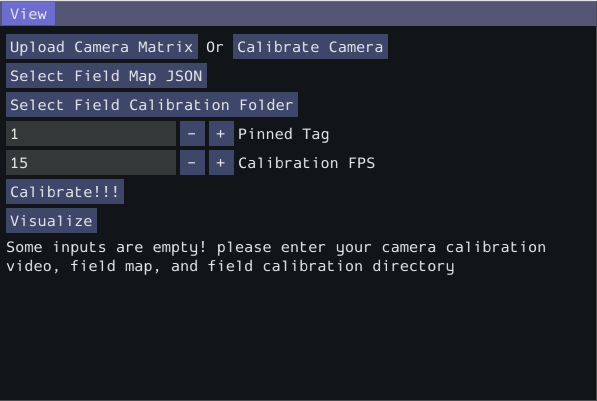
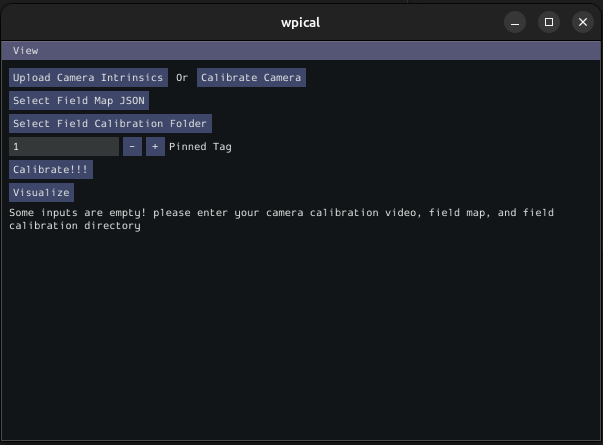
Fix screenshots and add field calibration step screenshot.

diff --git a/source/docs/software/wpilib-tools/wpical/index.rst b/source/docs/software/wpilib-tools/wpical/index.rst
@@ -140,6 +140,9 @@ Example:
 ## Field Calibration
 After calibrating the camera, you can use the camera model to find the relative positions of the Apriltags. The calibration process will generate a WPILib field layout .json file and a .fmap for use on coprocessors and in robot code. WPIcal will prompt the user to specify a location to save the generated .json and .fmap field layouts to when the :guilabel:`Calibrate!!!` button is pressed.
 
+.. image:: images/Calibrate!!!.png
+    :alt: FieldCalibration
+
 ### Upload Ideal Field Map
 WPIcal uses an "ideal" field map JSON as an initial guess point for the optimization. It is recommended to upload the json file included with WPILib, which can be found here: `Field JSON <https://github.com/wpilibsuite/allwpilib/tree/main/apriltag/src/main/native/resources/edu/wpi/first/apriltag>`_ If using a custom map, it must follow these rules:
 
